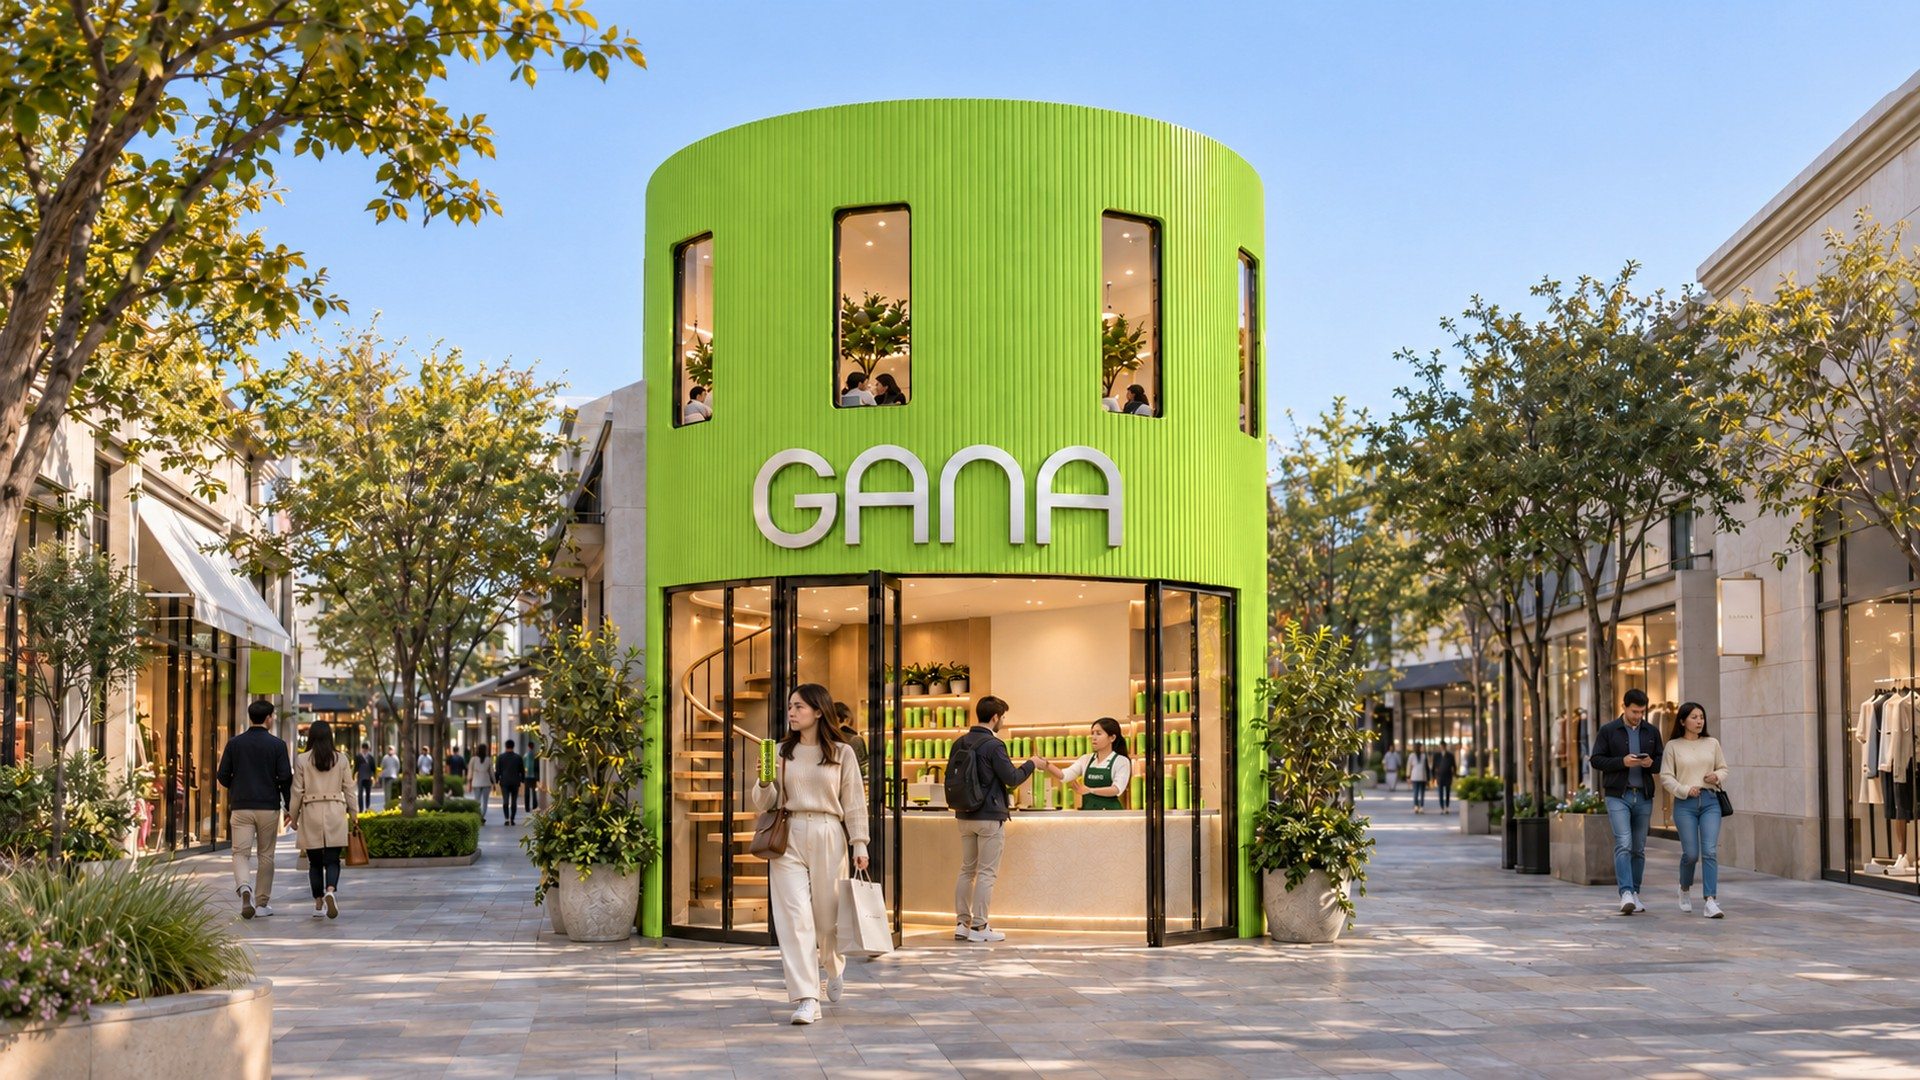
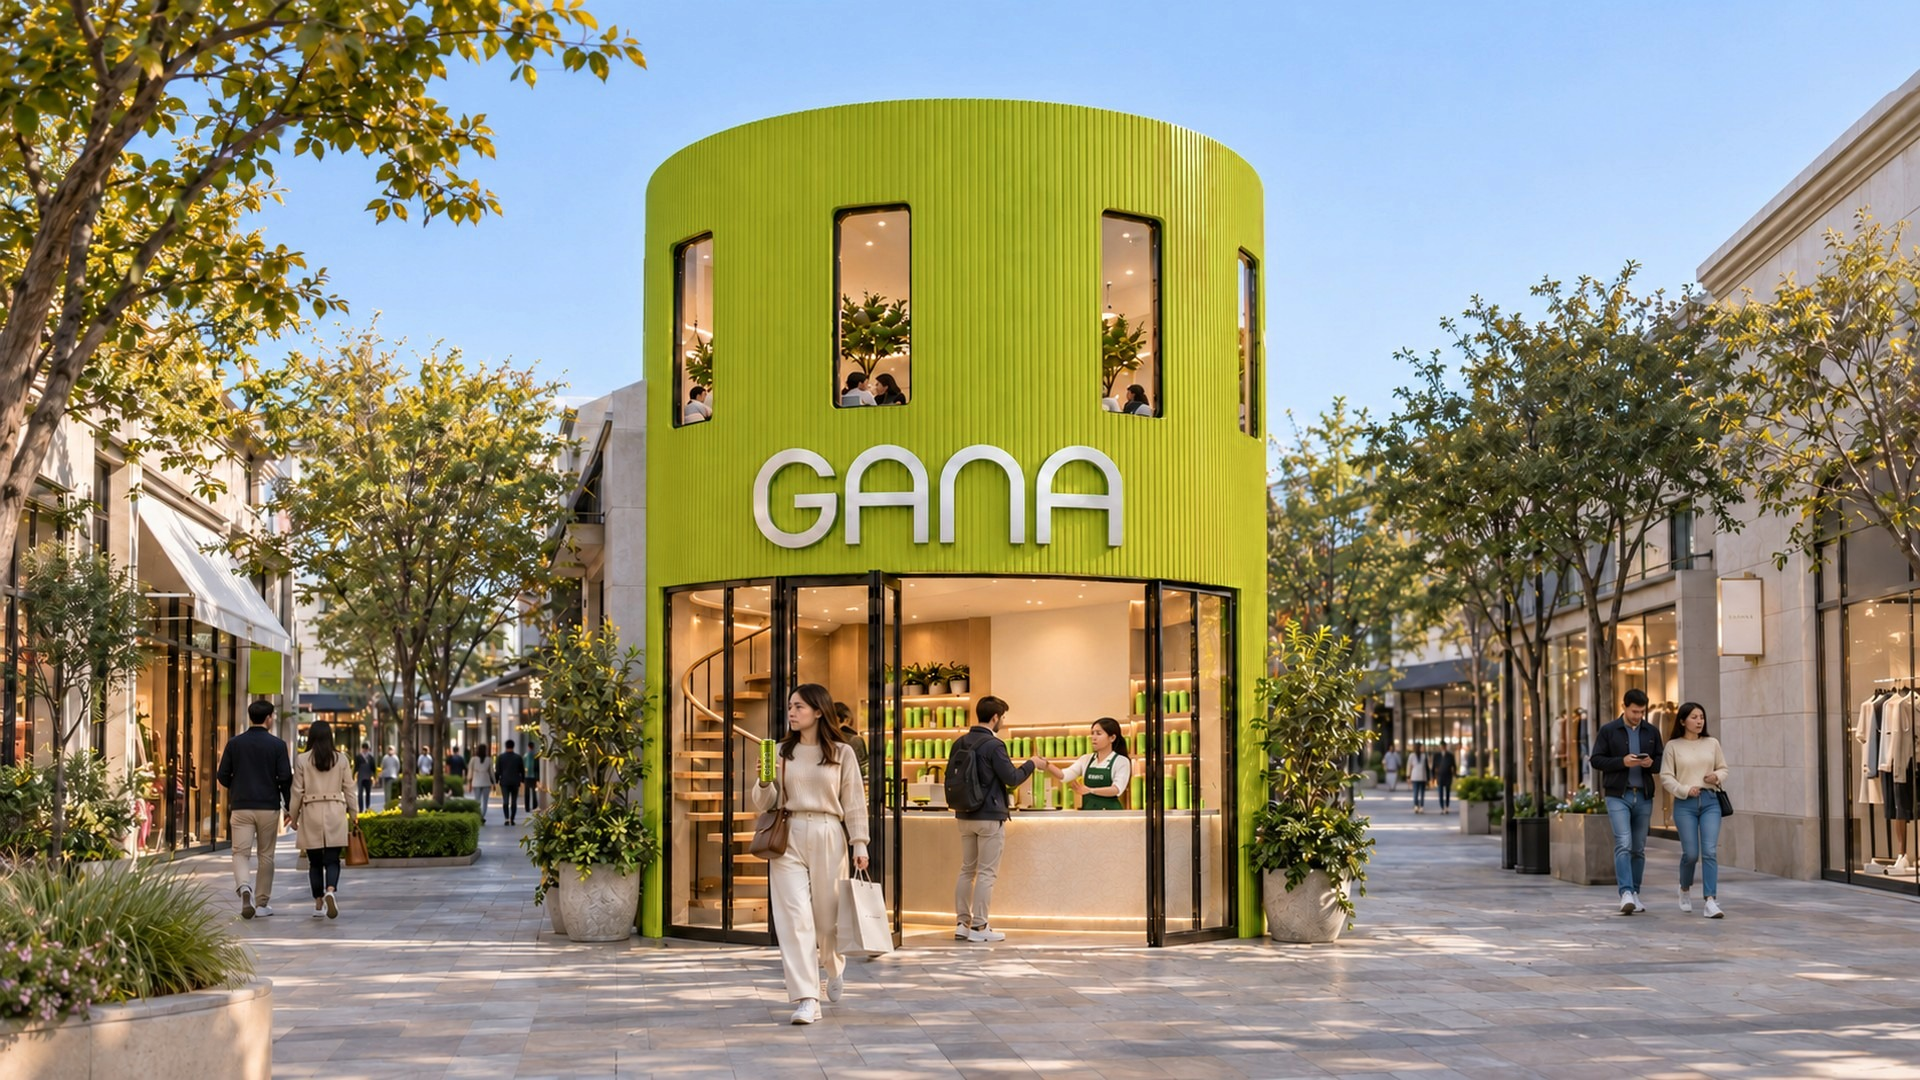
Storefront image: recolor façade green to match the interior photo
Claude-Session: https://claude.ai/code/session_012JxJ1wZGhZfBx68imA9sjs

Changed region(s): [[0.3125, 0.0917, 0.6875, 0.7639], [0.3125, 0.6722, 0.3438, 0.7333]]

diff --git a/experience.html b/experience.html
@@ -13,8 +13,8 @@
   <link rel="preconnect" href="https://fonts.googleapis.com">
   <link rel="preconnect" href="https://fonts.gstatic.com" crossorigin>
   <link href="https://fonts.googleapis.com/css2?family=Montserrat:wght@300;400;500;700&display=swap" rel="stylesheet">
-  <link rel="stylesheet" href="styles.css?v=101">
-  <link rel="stylesheet" href="guide.css?v=101">
+  <link rel="stylesheet" href="styles.css?v=102">
+  <link rel="stylesheet" href="guide.css?v=102">
 </head>
 <body class="sub">
 
@@ -42,7 +42,7 @@
     </section>
     <section class="scene s-cream exp-scene flip" id="storefront" data-label="Storefront">
       <div class="exp-big">
-        <img src="Images/gana-storefront-new.jpg" alt="The GANA storefront: a green ridged cylindrical shop in a shopping mall" width="1920" height="1080" loading="lazy">
+        <img src="Images/gana-storefront-new.jpg?c=2" alt="The GANA storefront: a green ridged cylindrical shop in a shopping mall" width="1920" height="1080" loading="lazy">
         <div class="exp-copy"><span class="tag">Architecture</span><h2>Storefront</h2><p>The storefront extends the bottle’s design into architecture. Vertical forms, cane-inspired texture and the established palette create a visible connection between the product and the place.</p><p>Carry the texture through selected surfaces, including the façade, counter and door handles. Keep the approved silver logo clearly visible and proportionate to the entrance.</p></div>
       </div>
     </section>
@@ -150,7 +150,7 @@
     </div>
   </footer>
 
-  <script src="script.js?v=101"></script>
-  <script src="scenes.js?v=101"></script>
+  <script src="script.js?v=102"></script>
+  <script src="scenes.js?v=102"></script>
 </body>
 </html>
